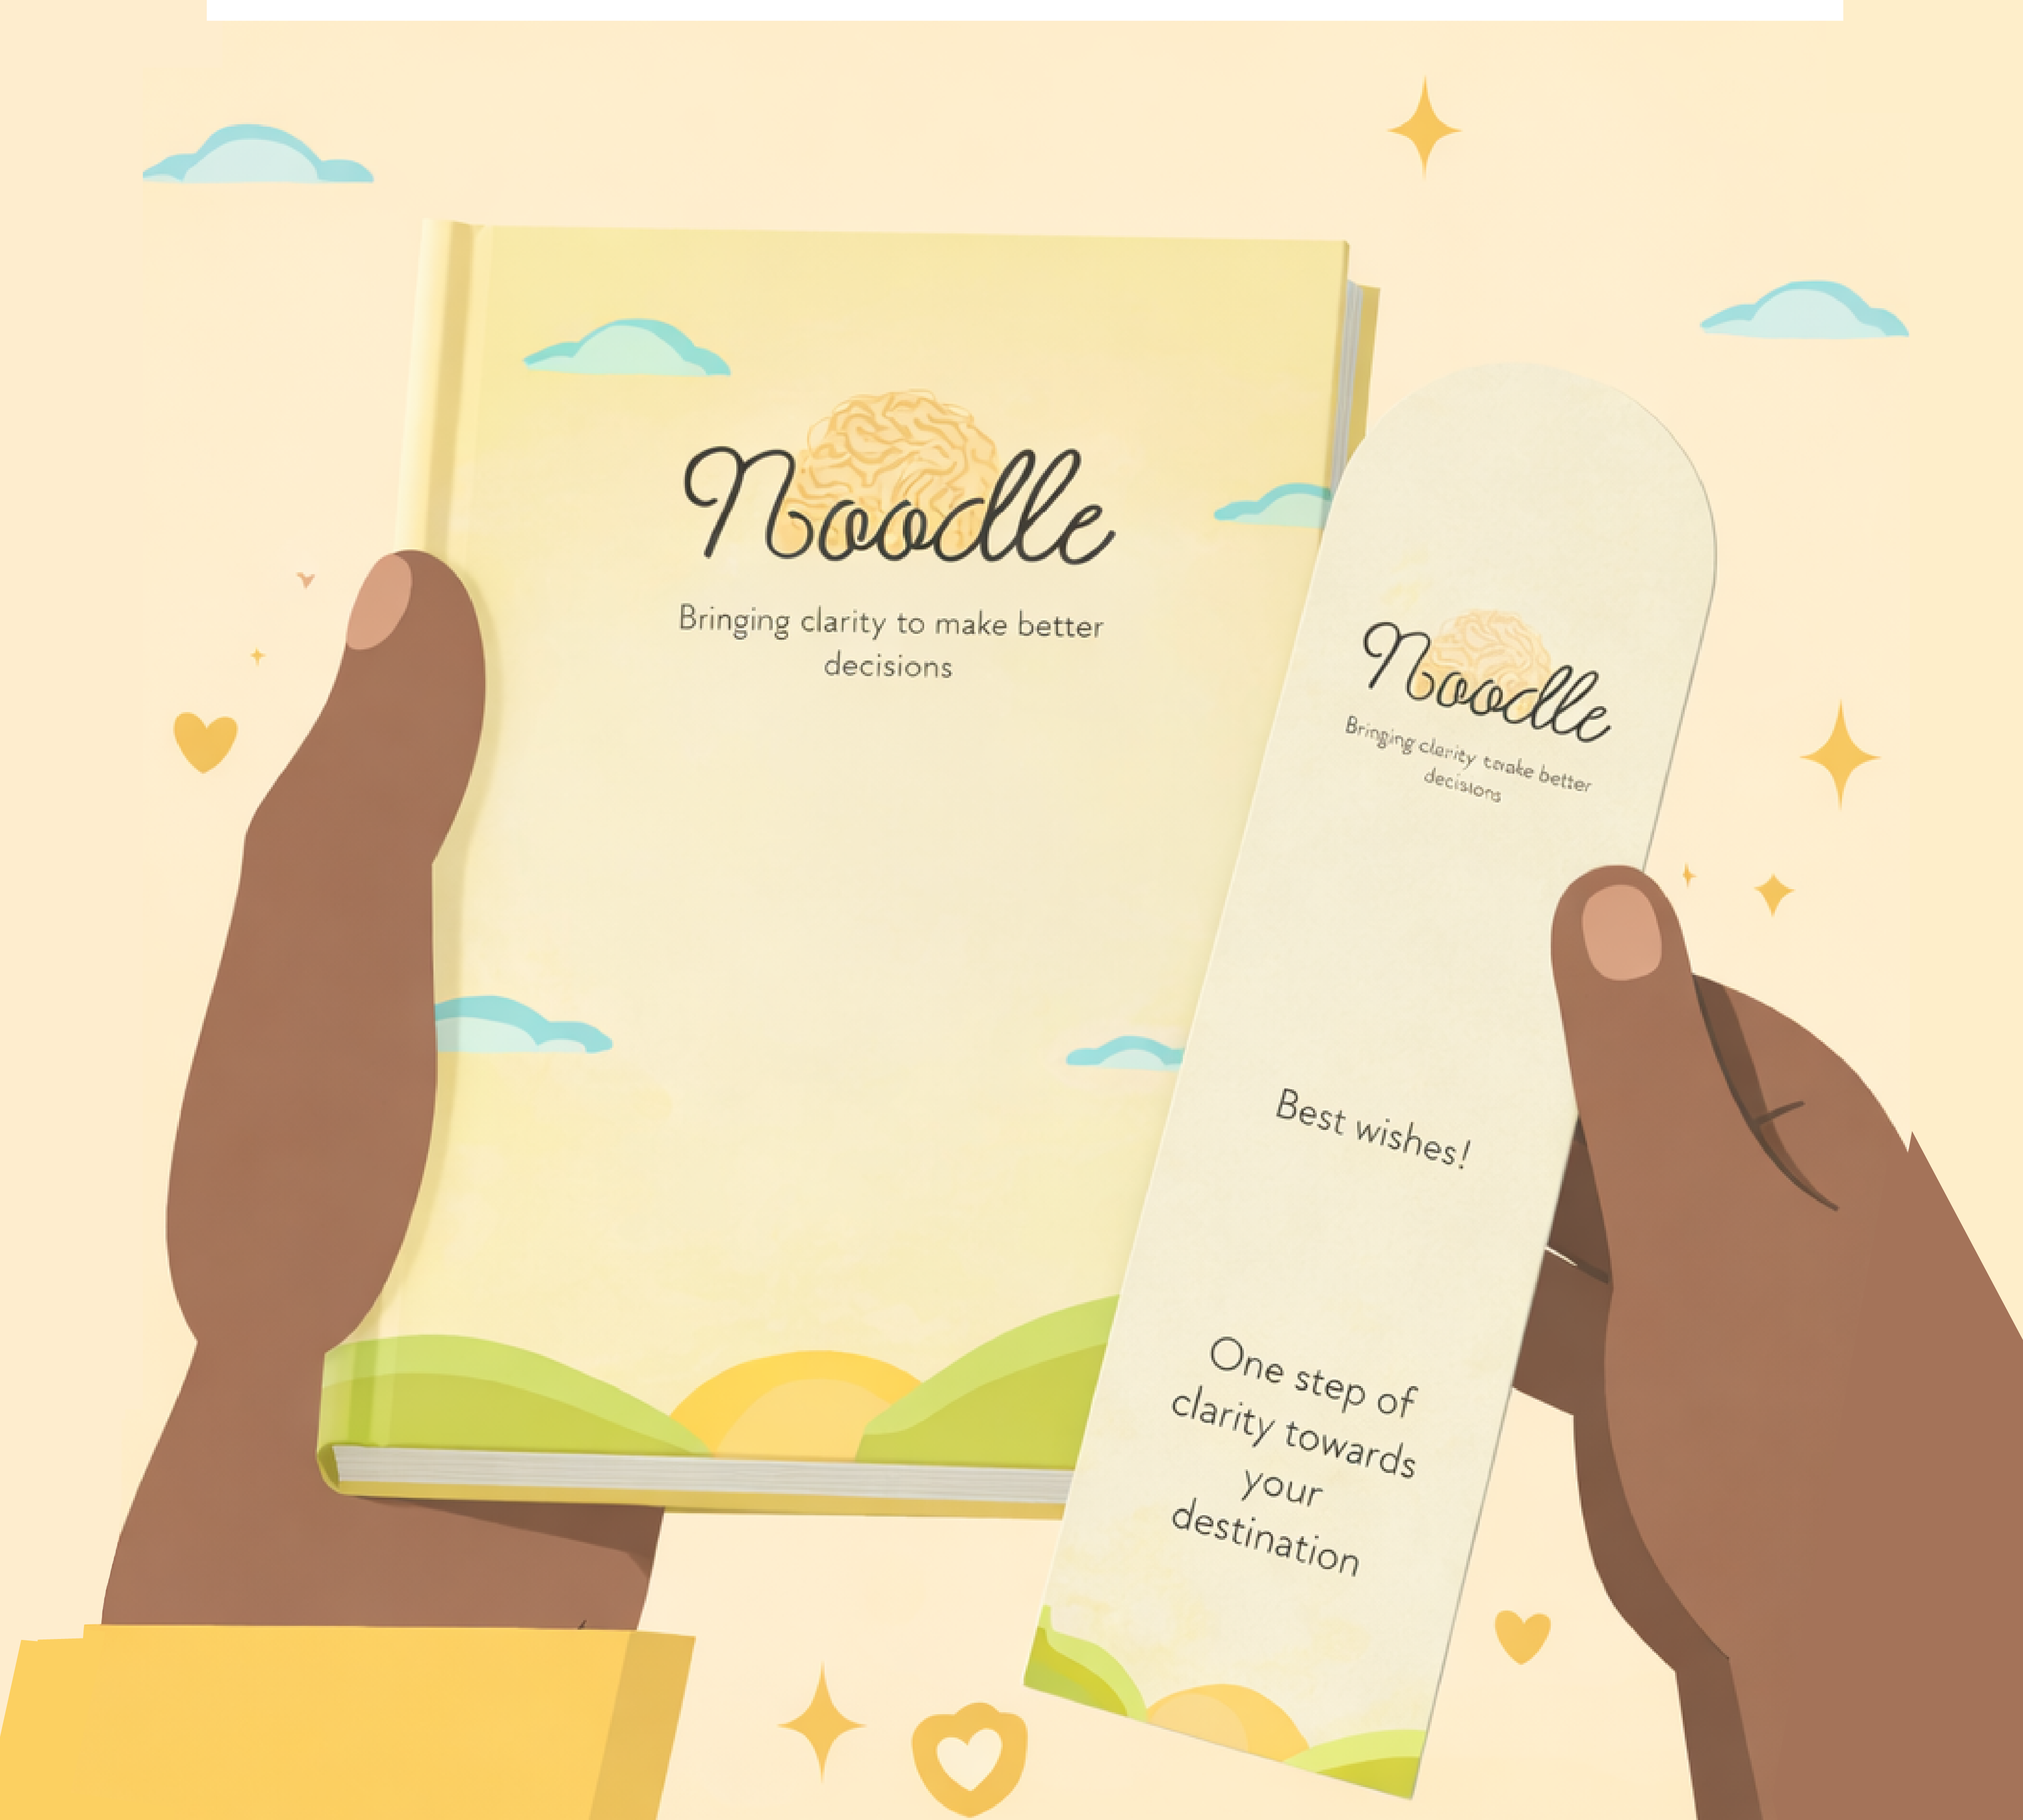
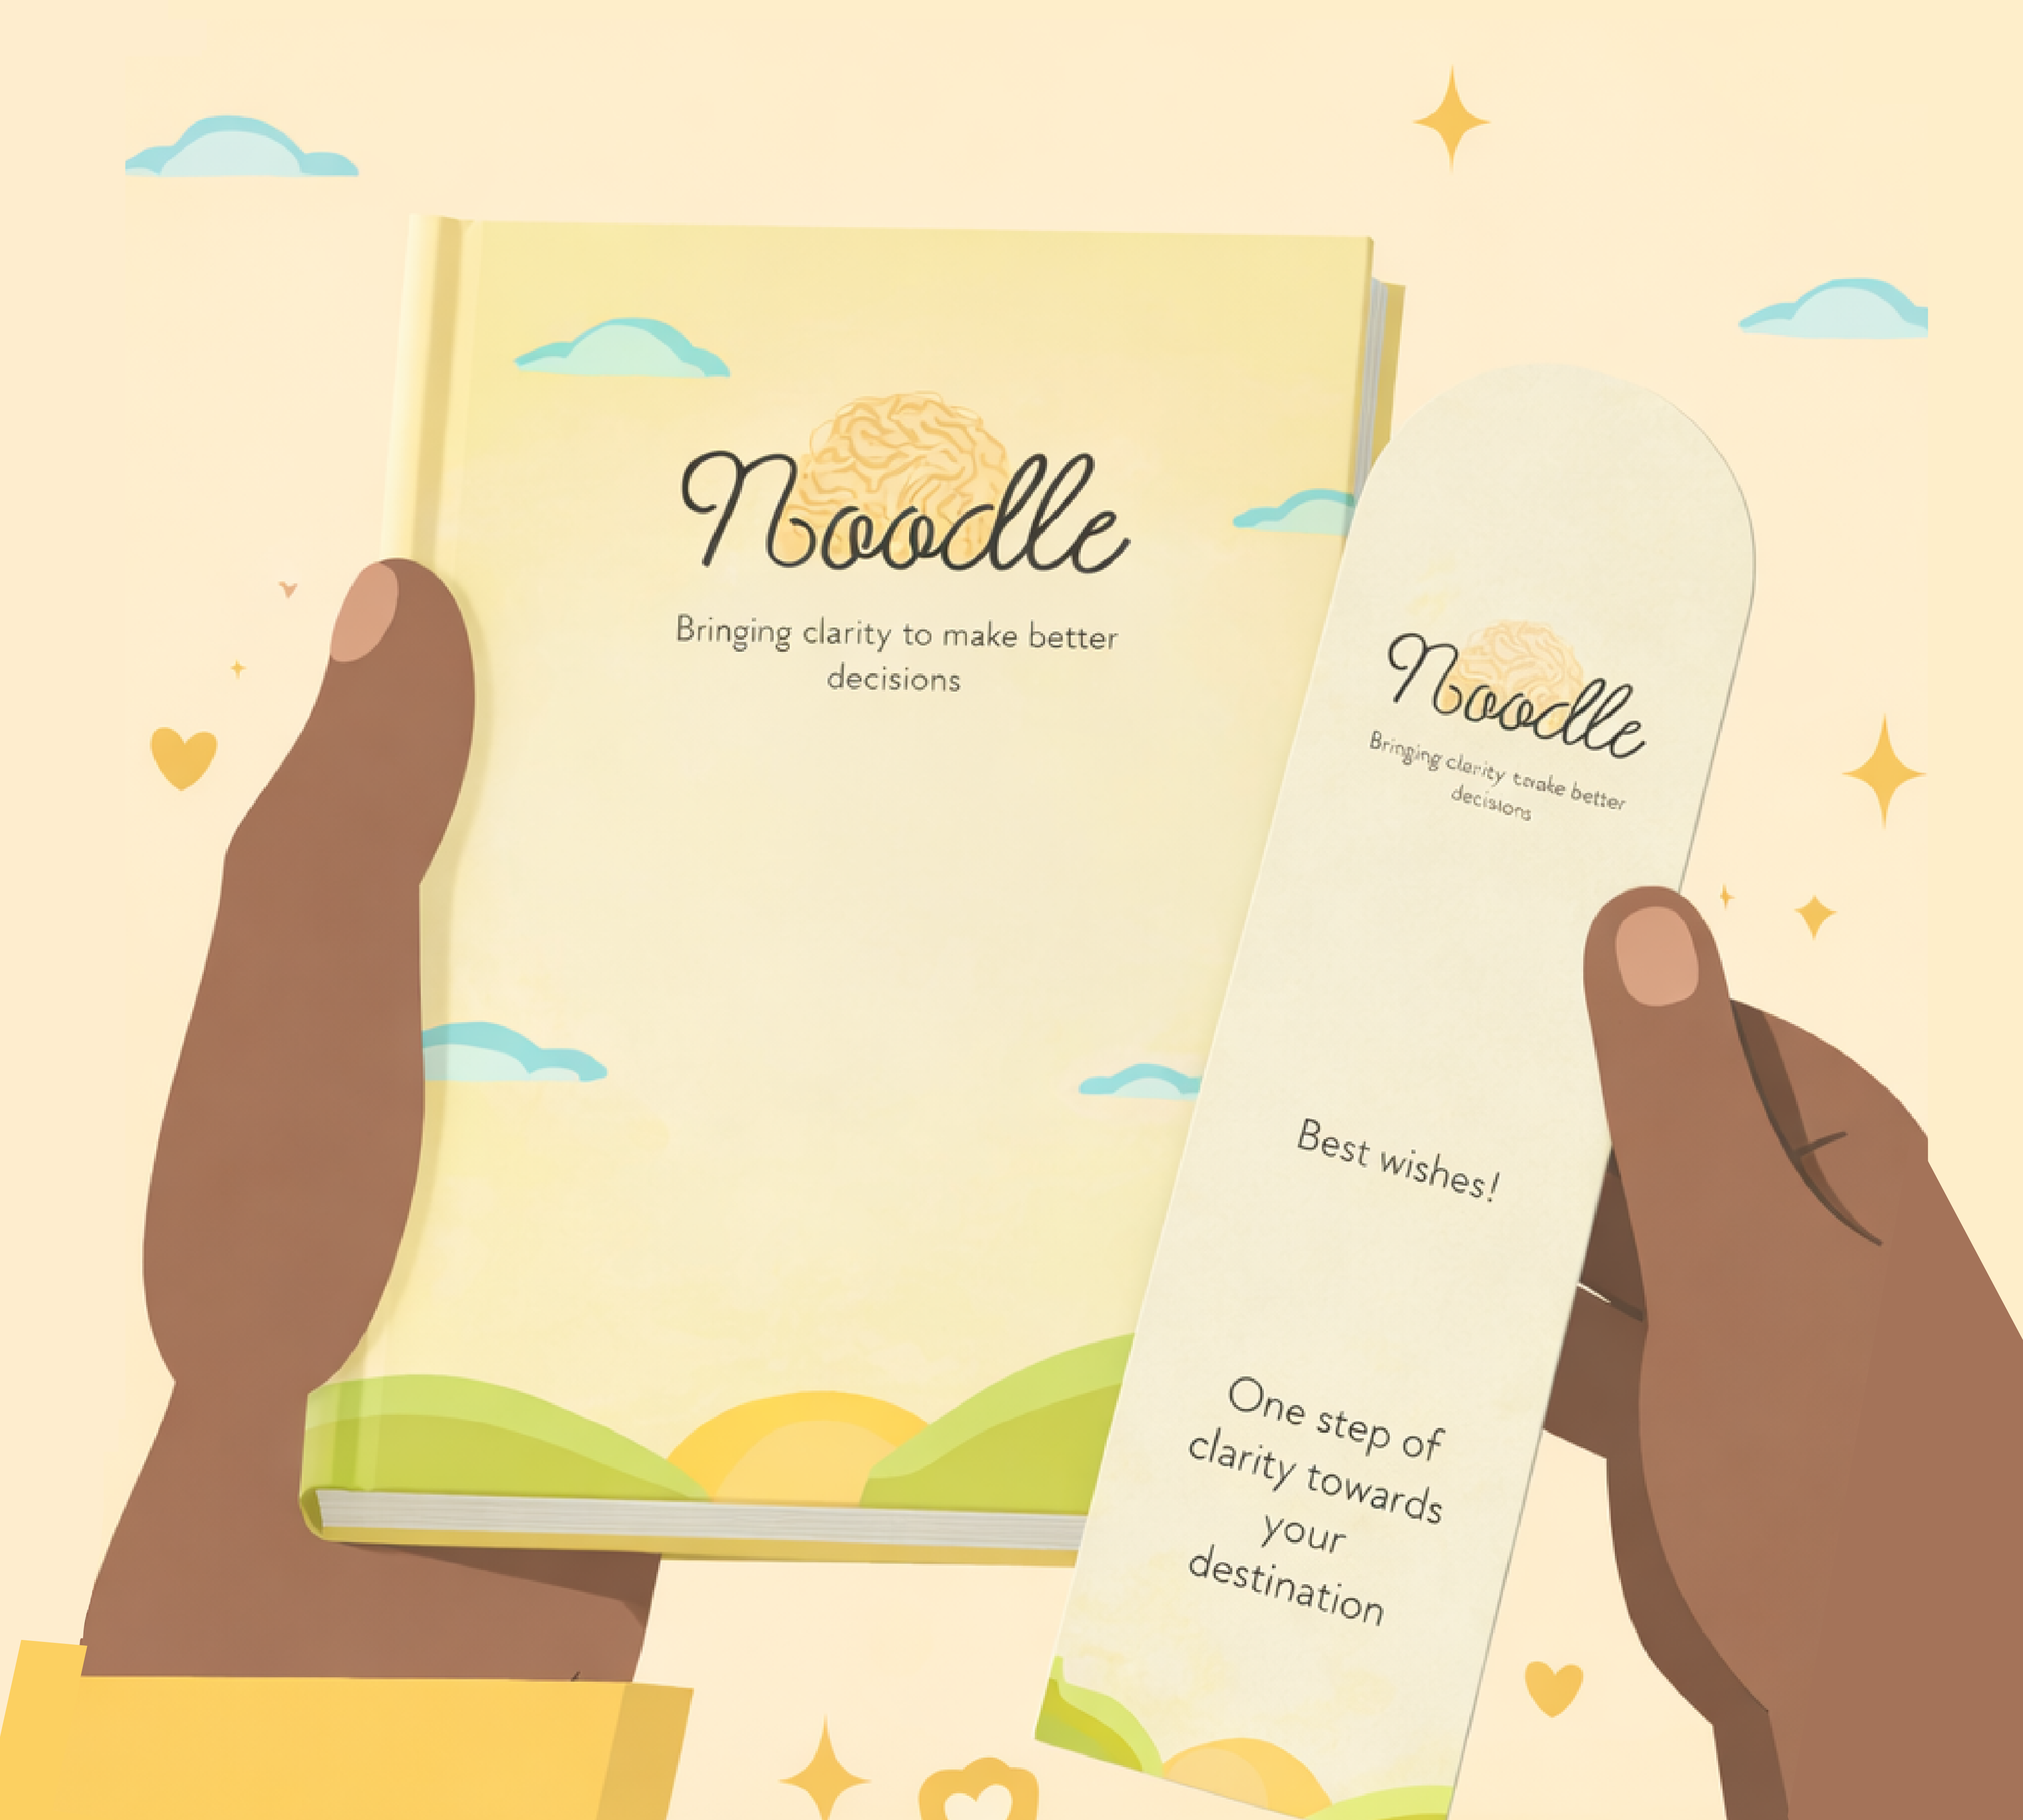
cover image update + emdash removed

diff --git a/script.js b/script.js
@@ -509,9 +509,9 @@ const P = {
 <p>By analysing successful and failed decisions, we observed:</p>
 <p>Every decision silently interacts with:</p>
 <ul>
-<li><strong>Past</strong> – What do I already have?</li>
-<li><strong>Present</strong> – What is influencing me right now?</li>
-<li><strong>Future</strong> – What could happen next?</li>
+<li><strong>Past</strong> - What do I already have?</li>
+<li><strong>Present</strong> - What is influencing me right now?</li>
+<li><strong>Future</strong> - What could happen next?</li>
 </ul>
 <p>This led us to identify three consistent anchors in strong decisions.</p>
 <h3>7. What is the Triangle of Clarity?</h3>
@@ -519,9 +519,9 @@ const P = {
 <h4>The Triangle of Clarity</h4>
 <p>Every strong decision rests on three anchors:</p>
 <ol>
-<li><strong>Drivers</strong> – What is pushing or pulling me toward this choice?</li>
-<li><strong>Information</strong> – What do I know? What am I assuming?</li>
-<li><strong>Consequences</strong> – What are the best and worst outcomes?</li>
+<li><strong>Drivers</strong> - What is pushing or pulling me toward this choice?</li>
+<li><strong>Information</strong> - What do I know? What am I assuming?</li>
+<li><strong>Consequences</strong> - What are the best and worst outcomes?</li>
 </ol>
 <p>We translated this into a guided, conversational Q&amp;A tool to help individuals navigate clarity.</p>
 <h3>8. Did the framework work?</h3>
@@ -559,11 +559,10 @@ const P = {
 <h3>11. What impact are we aiming for?</h3>
 <p>Decisiveness is not about speed.</p>
 <p>It is about <strong>conscious clarity</strong>.</p>
-<p>By moving from:</p>
+<p>By moving from <b>A broad human need</b>:</p>
 <ul>
-<li>A broad human need</li>
-<li>? to a structured clarity framework</li>
-<li>? to a contextual, tailored solution</li>
+<li> To a structured clarity framework</li>
+<li> To a contextual, tailored solution</li>
 </ul>
 <p>We transformed confusion into a navigable process.</p>
 <p>Because real impact doesn’t always come from giving answers.</p>
